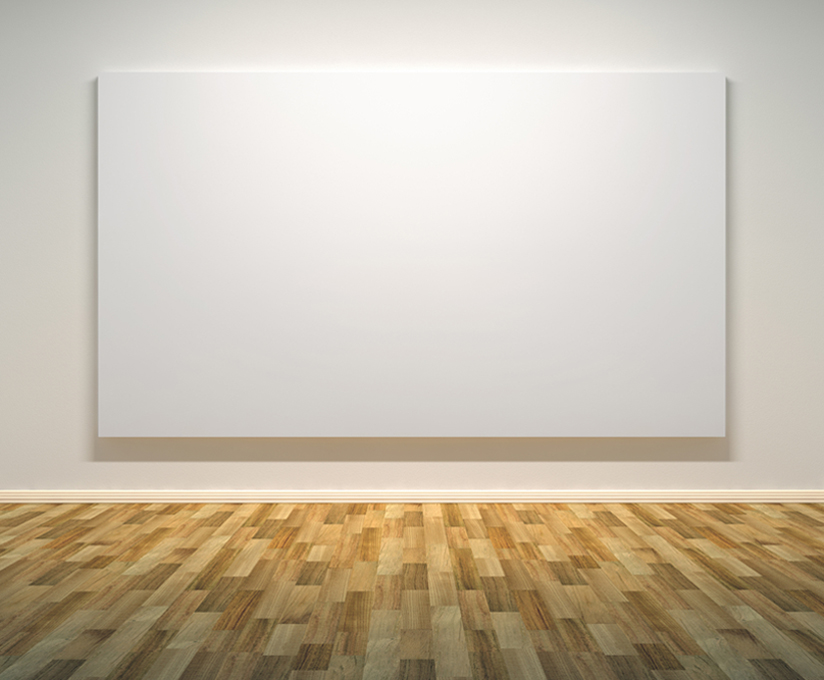
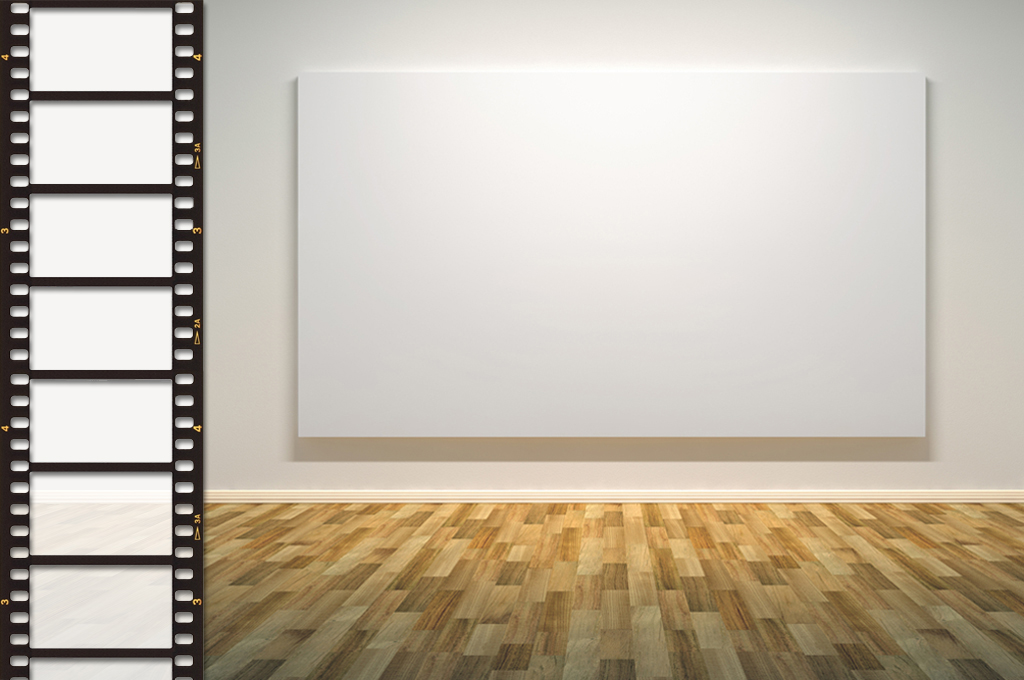
Whole bottom part of app is canvas. Frames can be selected on the side.

diff --git a/canvas.js b/canvas.js
@@ -36,7 +36,7 @@
 	var frameName = "Frame0";
 	var fileName = projectName + frameName;
 	
-	leftCellWidth = document.getElementById('cellx').getAttribute('width');
+	leftCellWidth = 0; //document.getElementById('cellx').getAttribute('width');
 	topCellHeight = document.getElementById('celly').getAttribute('height');
 	canvas = document.getElementById('canvas');
 	context = canvas.getContext("2d");
@@ -44,35 +44,70 @@
 	canvas.addEventListener("mousemove", mousemov, false);
 	canvas.addEventListener("mouseup", mousup, false);
 	
-	function switchFrames() {
-		if (fileName == "theGreatEscapeFrame0") {
-			frameName = "Frame1";
-			fileName = projectName + frameName;
-			erase();
-			loadImage();
-		} else {
-			frameName = "Frame0";
-			fileName = projectName + frameName;
-			erase();
-			loadImage();
-		}
+	function switchFrames(frName) 
+	{
+		frameName = frName;
+		fileName = projectName + frameName;
+		erase();
+		loadImage();
+	}
+	
+	function drawReelFrames()
+	{
+		var random = Math.floor(Math.random()*23);
+		
+		var imgFrame0 = new Image();
+		imgFrame0.src = "imgs/" + projectName + "Frame0.png?" + random;
+		imgFrame0.onload = function() {
+			context.drawImage(imgFrame0, 29, 7, 144, 86);
+		};
+		var imgFrame1 = new Image();
+		imgFrame1.src = "imgs/" + projectName + "Frame1.png?" + random;
+		imgFrame1.onload = function() {
+			context.drawImage(imgFrame1, 29, 99, 144, 86);
+		};
+		var imgFrame2 = new Image();
+		imgFrame2.src = "imgs/" + projectName + "Frame2.png?" + random;
+		imgFrame2.onload = function() {
+			context.drawImage(imgFrame2, 29, 193, 144, 86);
+		};
+		var imgFrame3 = new Image();
+		imgFrame3.src = "imgs/" + projectName + "Frame3.png?" + random;
+		imgFrame3.onload = function() {
+			context.drawImage(imgFrame3, 29, 286, 144, 86);
+		};
+		var imgFrame4 = new Image();
+		imgFrame4.src = "imgs/" + projectName + "Frame4.png?" + random;
+		imgFrame4.onload = function() {
+			context.drawImage(imgFrame4, 29, 379, 144, 86);
+		};
+		var imgFrame5 = new Image();
+		imgFrame5.src = "imgs/" + projectName + "Frame5.png?" + random;
+		imgFrame5.onload = function() {
+			context.drawImage(imgFrame5, 29, 471, 144, 86);
+		};
+		var imgFrame6 = new Image();
+		imgFrame6.src = "imgs/" + projectName + "Frame6.png?" + random;
+		imgFrame6.onload = function() {
+			context.drawImage(imgFrame6, 29, 565, 144, 86);
+		};
 	}
 	
 	function drawInitialFrame()
 	{
 		//context.drawImage(img_curtain, 0, 0);
-		context.drawImage(img_paint_button, 725, 90);	
-		context.drawImage(img_pictures_button, 725, 160);
-		context.drawImage(img_video_button, 725, 230);
-		context.drawImage(img_sound_button, 725, 300);
-		context.drawImage(img_pallette_buttons, 34, 90);
+		context.drawImage(img_paint_button, 937, 90);	
+		context.drawImage(img_pictures_button, 937, 160);
+		context.drawImage(img_video_button, 937, 230);
+		context.drawImage(img_sound_button, 937, 300);
+		context.drawImage(img_pallette_buttons, 246, 90);
+		
+		// draw the frames in the reel
+		drawReelFrames();
 		
 		var img = new Image();
-		if (fileName == "theGreatEscapeFrame0") {
-			img.src = "imgs/theGreatEscapeFrame0.png";
-		} else if (fileName == "theGreatEscapeFrame1") {
-			img.src = "imgs/theGreatEscapeFrame1.png";
-		}
+		var name = "imgs/" + projectName + frameName + ".png";
+		img.src = name;
 		
 		img.onload = function() {
 			context.drawImage(img, 0, 0);
@@ -82,12 +117,14 @@
 	function loadImage() {
 		//erase();
 		var random = Math.floor(Math.random()*23);
+		
+		// draw the frames in the reel
+		drawReelFrames();
+		
 		var img = new Image();
-		if (fileName == "theGreatEscapeFrame0") {
-			img.src = "imgs/theGreatEscapeFrame0.png?" + random;
-		} else if (fileName == "theGreatEscapeFrame1") {
-			img.src = "imgs/theGreatEscapeFrame1.png?" + random;
-		}
+		var name = "imgs/" + projectName + frameName + ".png?" + random;
+		img.src = name;
+		
 		img.onload = function() {
 			context.drawImage(img, 0, 0);
 		};
@@ -124,11 +161,11 @@
 		clickSize = new Array();
 		clickDrag = new Array();
 		canvas.width = canvas.width; // Clears the canvas
-		context.drawImage(img_paint_button, 725, 90);
-		context.drawImage(img_pictures_button, 725, 160);
-		context.drawImage(img_video_button, 725, 230);
-		context.drawImage(img_sound_button, 725, 300);
-		context.drawImage(img_pallette_buttons, 34, 90);
+		context.drawImage(img_paint_button, 937, 90);
+		context.drawImage(img_pictures_button, 937, 160);
+		context.drawImage(img_video_button, 937, 230);
+		context.drawImage(img_sound_button, 937, 300);
+		context.drawImage(img_pallette_buttons, 246, 90);
 	}
 	
 	function saveToServer()
@@ -156,29 +193,60 @@
 	function touchStart(event)
 	{
 		event.preventDefault();
-		var mouseX = event.touches[0].pageX - 12 - leftCellWidth+20;
-		var mouseY = event.touches[0].pageY - 0 - topCellHeight -45;
-		if (mouseX > 34 && mouseX < 80 && mouseY > 90 && mouseY < 150)
+		var mouseX = event.touches[0].pageX - leftCellWidth - 4;
+		var mouseY = event.touches[0].pageY - topCellHeight -20;
+		// frames
+		if (mouseX > 20 && mouseX < 185 && mouseY > 0 && mouseY < 94)
+		{
+			switchFrames("Frame0");	
+		}
+		else if (mouseX > 20 && mouseX < 185 && mouseY > 94 && mouseY < 187)
+		{
+			switchFrames("Frame1");
+		}
+		else if (mouseX > 20 && mouseX < 185 && mouseY > 189 && mouseY < 283)
+		{
+			switchFrames("Frame2");
+		}
+		else if (mouseX > 20 && mouseX < 185 && mouseY > 283 && mouseY < 374)
+		{
+			switchFrames("Frame3");
+		}
+		else if (mouseX > 20 && mouseX < 185 && mouseY > 374 && mouseY < 467)
+		{
+			switchFrames("Frame4");
+		}
+		else if (mouseX > 20 && mouseX < 185 && mouseY > 467 && mouseY < 560)
+		{
+			switchFrames("Frame5");
+		}
+		else if (mouseX > 20 && mouseX < 185 && mouseY > 560 && mouseY < 652)
+		{
+			switchFrames("Frame6");
+		}
+		
+		// paint pallette
+		if (mouseX > 246 && mouseX < 292 && mouseY > 90 && mouseY < 150)
 		{
 			curColor = colorPurple;	
 		}
-		if (mouseX > 34 && mouseX < 80 && mouseY > 150 && mouseY < 197)
+		if (mouseX > 246 && mouseX < 292 && mouseY > 150 && mouseY < 197)
 		{
 			curColor = colorBlue;	
 		}
-		if (mouseX > 34 && mouseX < 80 && mouseY > 197 && mouseY < 244)
+		if (mouseX > 246 && mouseX < 292 && mouseY > 197 && mouseY < 244)
 		{
 			curColor = colorGreen;	
 		}
-		if (mouseX > 34 && mouseX < 80 && mouseY > 244 && mouseY < 291)
+		if (mouseX > 246 && mouseX < 292 && mouseY > 244 && mouseY < 291)
 		{
 			curColor = colorYellow;	
 		}
-		if (mouseX > 34 && mouseX < 80 && mouseY > 291 && mouseY < 338)
+		if (mouseX > 246 && mouseX < 292 && mouseY > 291 && mouseY < 338)
 		{
 			curColor = colorOrange;	
 		}
-		if (mouseX > 34 && mouseX < 80 && mouseY > 338 && mouseY < 385)
+		if (mouseX > 246 && mouseX < 292 && mouseY > 338 && mouseY < 385)
 		{
 			curColor = colorRed;	
 		}
@@ -192,8 +260,8 @@
 	function touchMove(event)
 	{
 		event.preventDefault();
-		var mouseX = event.touches[0].pageX - 12 - leftCellWidth+20;
-		var mouseY = event.touches[0].pageY - 0 - topCellHeight -45;
+		var mouseX = event.touches[0].pageX - leftCellWidth - 4;
+		var mouseY = event.touches[0].pageY - topCellHeight -20;
 		{
 			if(paint){
 			addClick(mouseX, mouseY, true);
@@ -214,29 +282,60 @@
 
 	function mousedwn(e)
 	{
-		var mouseX = e.pageX - this.offsetLeft - leftCellWidth+20;
-		var mouseY = e.pageY - this.offsetTop - topCellHeight -7;
-		if (mouseX > 34 && mouseX < 80 && mouseY > 90 && mouseY < 150)
+		var mouseX = e.pageX - this.offsetLeft - leftCellWidth;
+		var mouseY = e.pageY - this.offsetTop - topCellHeight -15;
+		// frames
+		if (mouseX > 20 && mouseX < 185 && mouseY > 0 && mouseY < 94)
+		{
+			switchFrames("Frame0");	
+		}
+		else if (mouseX > 20 && mouseX < 185 && mouseY > 94 && mouseY < 189)
+		{
+			switchFrames("Frame1");
+		}
+		else if (mouseX > 20 && mouseX < 185 && mouseY > 189 && mouseY < 283)
+		{
+			switchFrames("Frame2");
+		}
+		else if (mouseX > 20 && mouseX < 185 && mouseY > 283 && mouseY < 374)
+		{
+			switchFrames("Frame3");
+		}
+		else if (mouseX > 20 && mouseX < 185 && mouseY > 374 && mouseY < 467)
+		{
+			switchFrames("Frame4");
+		}
+		else if (mouseX > 20 && mouseX < 185 && mouseY > 467 && mouseY < 560)
+		{
+			switchFrames("Frame5");
+		}
+		else if (mouseX > 20 && mouseX < 185 && mouseY > 560 && mouseY < 652)
+		{
+			switchFrames("Frame6");
+		}
+		
+		// paint pallette
+		if (mouseX > 246 && mouseX < 292 && mouseY > 90 && mouseY < 150)
 		{
 			curColor = colorPurple;	
 		}
-		if (mouseX > 34 && mouseX < 80 && mouseY > 150 && mouseY < 197)
+		if (mouseX > 246 && mouseX < 292 && mouseY > 150 && mouseY < 197)
 		{
 			curColor = colorBlue;	
 		}
-		if (mouseX > 34 && mouseX < 80 && mouseY > 197 && mouseY < 244)
+		if (mouseX > 246 && mouseX < 292 && mouseY > 197 && mouseY < 244)
 		{
 			curColor = colorGreen;	
 		}
-		if (mouseX > 34 && mouseX < 80 && mouseY > 244 && mouseY < 291)
+		if (mouseX > 246 && mouseX < 292 && mouseY > 244 && mouseY < 291)
 		{
 			curColor = colorYellow;	
 		}
-		if (mouseX > 34 && mouseX < 80 && mouseY > 291 && mouseY < 338)
+		if (mouseX > 246 && mouseX < 292 && mouseY > 291 && mouseY < 338)
 		{
 			curColor = colorOrange;	
 		}
-		if (mouseX > 34 && mouseX < 80 && mouseY > 338 && mouseY < 385)
+		if (mouseX > 246 && mouseX < 292 && mouseY > 338 && mouseY < 385)
 		{
 			curColor = colorRed;	
 		}
@@ -250,8 +349,8 @@
 	
 	function mousemov(e)
 	{
-		var mouseX = e.pageX - this.offsetLeft - leftCellWidth+20;
-		var mouseY = e.pageY - this.offsetTop - topCellHeight -7;
+		var mouseX = e.pageX - this.offsetLeft - leftCellWidth;
+		var mouseY = e.pageY - this.offsetTop - topCellHeight -15;
 		{
 			if(paint){
 			addClick(mouseX, mouseY, true);
@@ -289,7 +388,7 @@
 		
 		context.save();
 		context.beginPath();
-		context.rect(85, 72, 628, 365);
+		context.rect(297, 72, 628, 365);
 		context.clip();
 					
 		for(var i=clickX.length-1; i < clickX.length; i++)

diff --git a/index.html b/index.html
@@ -21,36 +21,41 @@
 	background-color:#CB0000;
 	font-size: large;
 	font-style: normal;
-	margin: 20px;
-	padding: 20px;
+	margin: 5px;
+	padding: 5px;
 	font-family: Arial, Helvetica, sans-serif;
 }
 .headerCell2 {
 	background-color:#CB0000}
+body {
+	margin-left: 0px;
+	margin-top: 0px;
+	margin-right: 0px;
+	margin-bottom: 0px;
+}
 	-->
 </style>
-</head>
+<meta http-equiv="Content-Type" content="text/html; charset=ISO-8859-1"></head>
 <body onLoad="drawInitialFrame()">
 
     
 
 <table width="1024" cellpadding="0" cellspacing="0" id="table">
   <tr>
-    <td width="234" rowspan="3" class="cell" id="cellx">&nbsp;</td>
-    <td width="191" height="75" class="headerCell1" id="celly">CUTTING ROOM <p><button onclick="saveToServer();">Save Frame</button></p></td>
-    <td width="238" class="headerCell2">&nbsp;<button onclick="erase();">Erase</button><br /><button onclick="loadImage();">Load Frame</button>
-    <br /><button onclick="switchFrames()">Switch Frames</button></td>
-    <td width="359" class="headerCell2">&nbsp;</td>
+    <td width="231" height="20" class="headerCell1" id="celly"><button onClick="saveToServer();">Save Frame</button></td>
+    <td width="310" class="headerCell2">&nbsp;<button onClick="erase();">Erase</button>&nbsp;<button onClick="loadImage();">Load Frame</button>
+   </td>
+    <td width="278" class="headerCell2">&nbsp;</td>
   </tr>
   <tr>
     <td colspan="3" class="canvasCell">
-    <canvas id="canvas" width="800" height="500"
+    <canvas id="canvas" width="1024" height="630"
     ontouchstart="touchStart(event);"
     ontouchmove="touchMove(event);"
     ontouchend="touchEnd(event);"
     ontouchcancel="touchCancel(event);"></canvas>
 	<script type="text/javascript" src="canvas.js"></script>
-    <p>&nbsp;</p><p>&nbsp;</p><p>&nbsp;</p>
+    <p>&nbsp;</p>
     </td>
   </tr>
   <tr>
